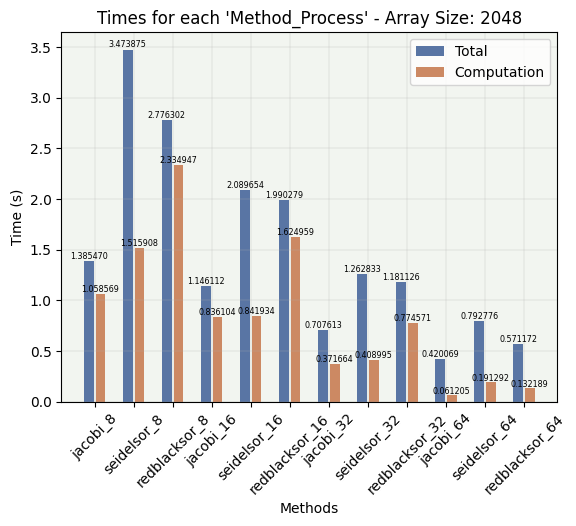
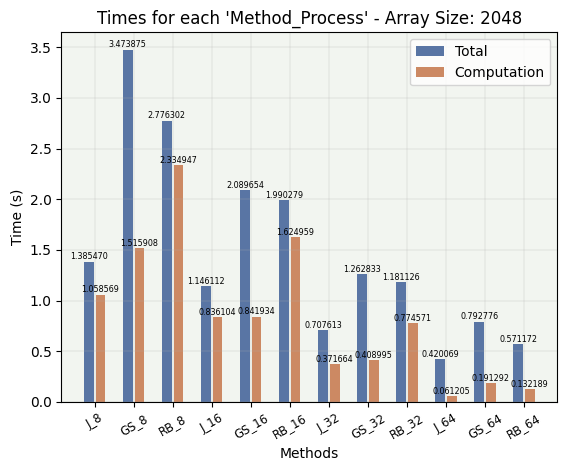
changed label names

Changed region(s): [[0.0, 0.0, 0.9894, 0.9809]]

diff --git a/2nd_exec/src/plot.py b/2nd_exec/src/plot.py
@@ -178,6 +178,8 @@ for tuple in y_Axis.items():
 
 
 ## PLOT BAR PLOTS
+# names = {"jacobi":"j" , "seidelsor":"gs", "redblacksor":"rb"}
+names = ["J", "GS", "RB"]
 
 x_Axis = np.array(names)
 
@@ -227,7 +229,7 @@ for tuple_total, tuple_comp in zip(total_times.items(), comp_times.items()):
 
     plt.xlabel("Methods")
     plt.ylabel("Time (s)")
-    plt.xticks([r + 0.15 for r in range(len(names)*len(jobs_confs[3:]))], names_per_job, rotation=45)
+    plt.xticks([r + 0.15 for r in range(len(names)*len(jobs_confs[3:]))], names_per_job, rotation=30, fontsize='small')
     plt.title("Times for each 'Method_Process' - Array Size: " + str(tuple_total[0]))
     plt.legend()
     plt.savefig("plot_times_" + str(tuple_total[0]) + ".png",bbox_inches="tight")
